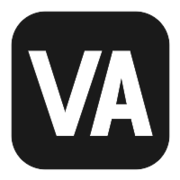
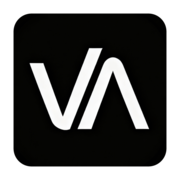
修改平台icon 和logo

Changed region(s): [[0.1389, 0.2222, 0.8889, 0.7778], [0.0556, 0.0556, 0.9444, 0.9444]]

diff --git a/merchant-admin/public/index.html b/merchant-admin/public/index.html
@@ -4,7 +4,7 @@
 <head>
   <meta charset="utf-8" />
   <!-- Favicon -->
-  <link rel="icon" type="image/svg+xml" href="%PUBLIC_URL%/favicon.svg?v=3" />
+  <link rel="icon" type="image/png" href="%PUBLIC_URL%/favicon.png?v=4" />
   <meta name="viewport" content="width=device-width, initial-scale=1" />
   <meta name="theme-color" content="#1a1a1a" />
   <meta name="description" content="VA Merchant System - 专业的商户管理平台" />
@@ -98,7 +98,7 @@
       }, true); // Use capture phase
     })();
   </script>
-  <title>Merchant System</title>
+  <title>VA Merchant</title>
 </head>
 
 <body>

diff --git a/merchant-admin/src/App.tsx b/merchant-admin/src/App.tsx
@@ -333,7 +333,7 @@ const MainAppContent: React.FC = () => {
           {/* Logo */}
           <Box
             component="img"
-            src="/favicon.svg"
+            src="/va.png"
             alt="VA"
             sx={{
               width: 32,
